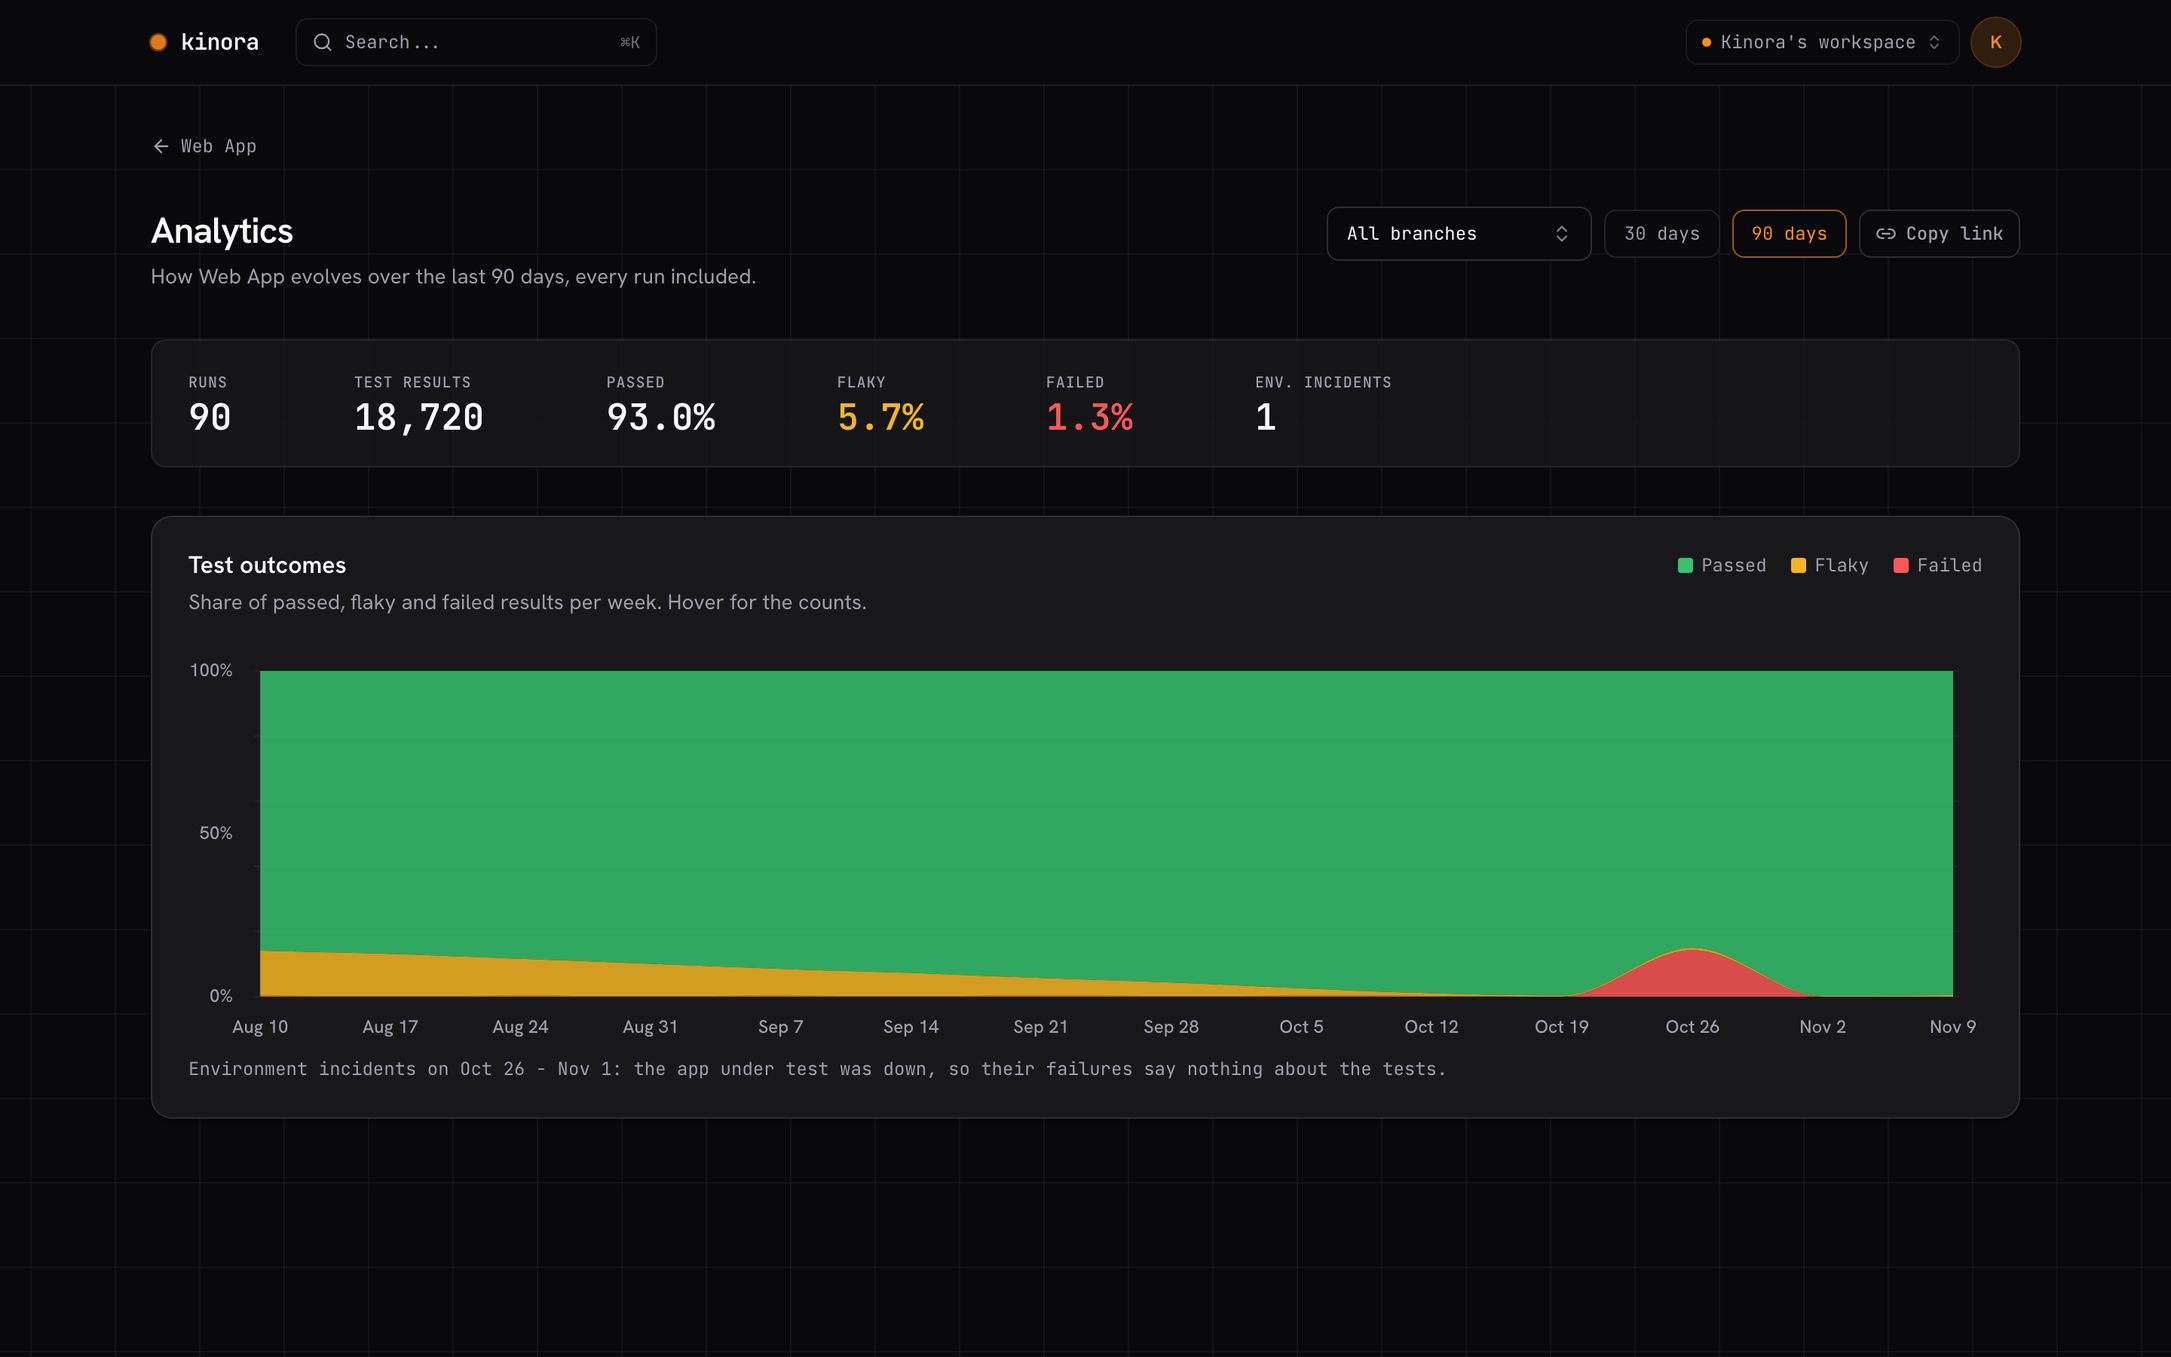
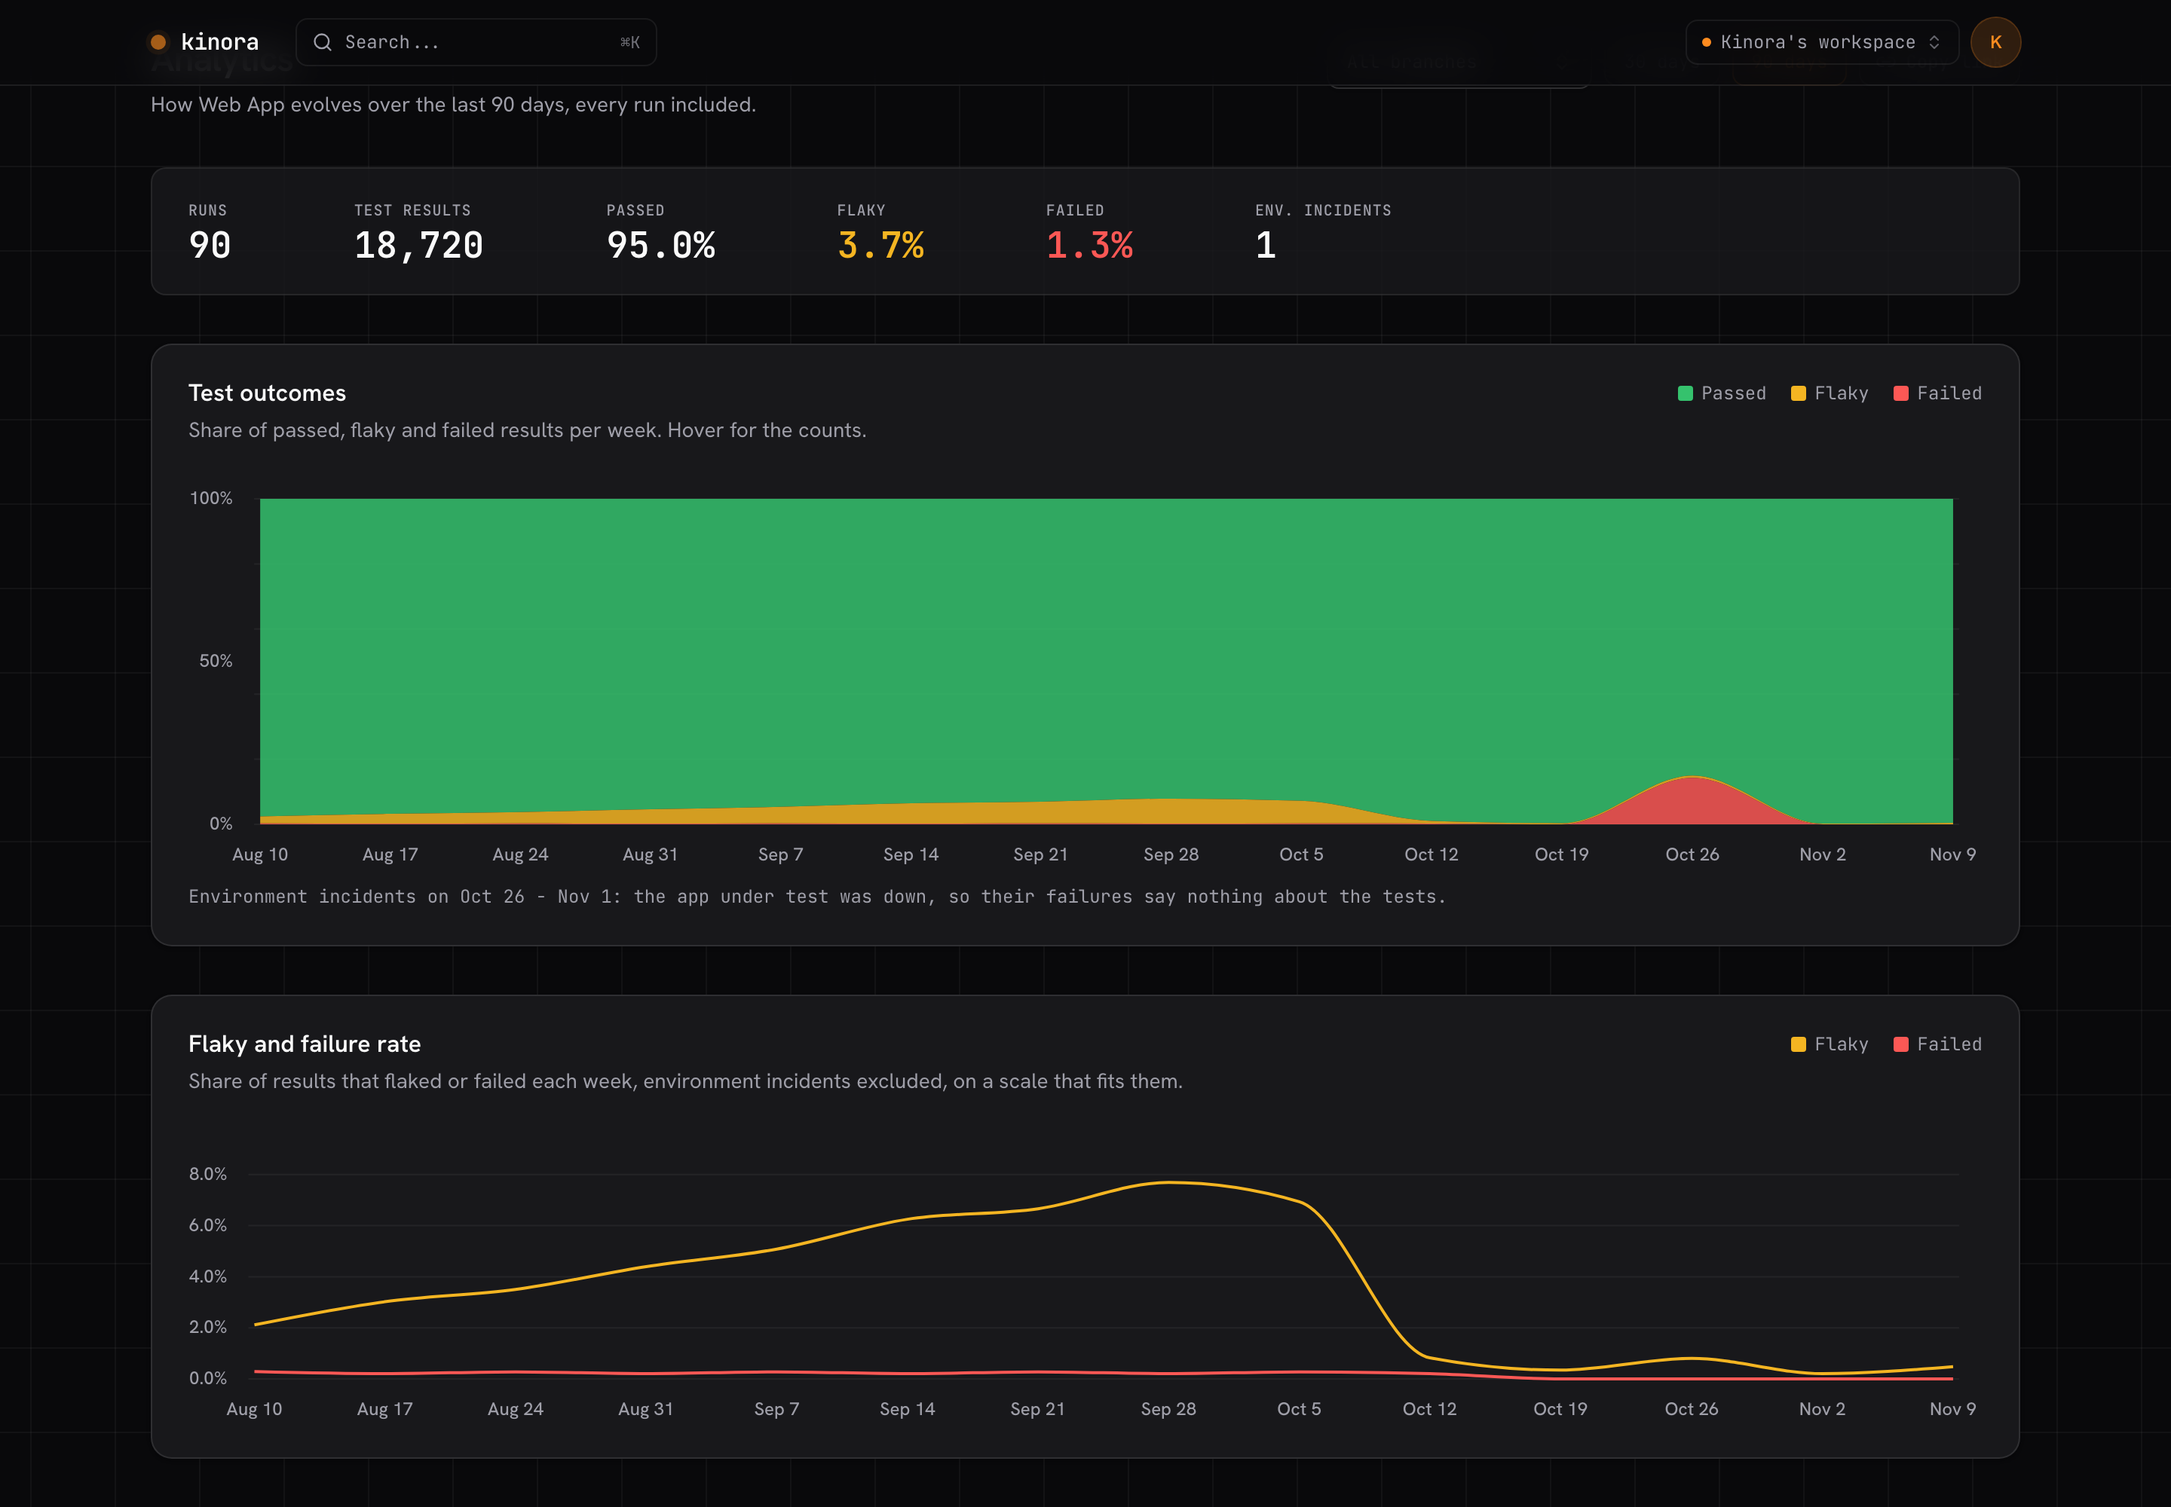
feat(analytics): chart flaky and failure rates on their own scale, without environment incidents

diff --git a/packages/web/src/pages/AnalyticsPage.vue b/packages/web/src/pages/AnalyticsPage.vue
@@ -3,6 +3,7 @@ import type { ChartConfig } from '@kinora/ui/chart'
 import { formatPct } from '@kinora/core'
 import { Button } from '@kinora/ui/button'
 import { Card, CardContent, CardDescription, CardHeader, CardTitle } from '@kinora/ui/card'
+import { LineChart } from '@kinora/ui/line-chart'
 import { SegmentedControl } from '@kinora/ui/segmented-control'
 import { Separator } from '@kinora/ui/separator'
 import { Skeleton } from '@kinora/ui/skeleton'
@@ -49,6 +50,15 @@ const outcomesConfig = {
 } satisfies ChartConfig
 
 const outcomes = computed(() => state.value?.outcomes ?? [])
+// A few percent of flaky results is invisible on the 0-100% outcomes chart: plot the rates on
+// their own scale, where a drift from 1% to 4% reads as one. Skipped results and environment
+// incidents are left out: an outage would otherwise set the scale and flatten everything else.
+const RATE_SERIES = ['flaky', 'unexpected']
+const ratesConfig = { flaky: outcomesConfig.flaky, unexpected: outcomesConfig.unexpected } satisfies ChartConfig
+const rates = computed(() => outcomes.value.flatMap((b) => {
+  const ran = b.countedExpected + b.countedFlaky + b.countedUnexpected
+  return ran ? [{ date: b.date, flaky: b.countedFlaky / ran, unexpected: b.countedUnexpected / ran }] : []
+}))
 const totals = computed(() => outcomes.value.reduce(
   (t, b) => ({ runs: t.runs + b.runs, expected: t.expected + b.expected, flaky: t.flaky + b.flaky, unexpected: t.unexpected + b.unexpected, incidents: t.incidents + b.incidents }),
   { runs: 0, expected: 0, flaky: 0, unexpected: 0, incidents: 0 },
@@ -184,6 +194,35 @@ const incidentBuckets = computed(() => outcomes.value.filter(b => b.incidents > 
           <p v-if="incidentBuckets.length" data-testid="incident-buckets" class="mt-3 font-mono text-xs text-muted-foreground">
             Environment incidents on {{ incidentBuckets.join(', ') }}: the app under test was down, so their failures say nothing about the tests.
           </p>
+        </CardContent>
+      </Card>
+
+      <Card v-if="rates.length > 1">
+        <CardHeader class="flex flex-row flex-wrap items-start justify-between gap-4">
+          <div class="flex flex-col gap-1.5">
+            <CardTitle>Flaky and failure rate</CardTitle>
+            <CardDescription>Share of results that flaked or failed each {{ per }}, environment incidents excluded, on a scale that fits them.</CardDescription>
+          </div>
+          <div class="flex items-center gap-4 font-mono text-xs text-muted-foreground">
+            <span v-for="key in RATE_SERIES" :key="key" class="flex items-center gap-1.5">
+              <span class="size-2.5 rounded-xs" :style="{ background: ratesConfig[key as keyof typeof ratesConfig].color }" />
+              {{ ratesConfig[key as keyof typeof ratesConfig].label }}
+            </span>
+          </div>
+        </CardHeader>
+        <CardContent>
+          <LineChart
+            :data="rates"
+            :x="d => at(d.date)"
+            :series="RATE_SERIES"
+            :config="ratesConfig"
+            :y-format="formatPct"
+            :x-tick-format="shortDate"
+            :x-label-format="bucketLabel"
+            :x-domain="xDomain"
+            :x-ticks="buckets"
+            class="h-48"
+          />
         </CardContent>
       </Card>
     </template>

diff --git a/packages/ui/src/components/ui/line-chart/LineChart.vue b/packages/ui/src/components/ui/line-chart/LineChart.vue
@@ -1,0 +1,69 @@
+<script setup lang="ts" generic="T extends Record<string, unknown>">
+import type { HTMLAttributes } from 'vue'
+import type { ChartConfig } from '../chart'
+import { CurveType } from '@unovis/ts'
+import { VisAxis, VisLine, VisXYContainer } from '@unovis/vue'
+import { usePreferredReducedMotion } from '@vueuse/core'
+import { computed } from 'vue'
+import { ChartContainer, ChartCrosshair, ChartTooltip, ChartTooltipContent, componentToString } from '../chart'
+
+// Several series as lines on one time axis, e.g. flaky and failure rates per week. `series` lists
+// config keys; each is also the datum field holding that series' value. Unlike a stacked chart,
+// the y axis fits the data, so a rate moving from 1% to 4% reads as a real change.
+const props = defineProps<{
+  data: T[]
+  x: (d: T, i: number) => number
+  series: string[]
+  config: ChartConfig
+  xTickFormat?: (x: number) => string
+  // Tooltip title; defaults to xTickFormat.
+  xLabelFormat?: (x: number) => string
+  // Formats a value on the y axis and in the tooltip, e.g. a rate as a percent.
+  yFormat?: (y: number) => string
+  xDomain?: [number, number]
+  xTicks?: number[]
+  class?: HTMLAttributes['class']
+}>()
+
+const still = usePreferredReducedMotion().value === 'reduce'
+const y = computed(() => props.series.map(key => (d: T) => Number(d[key]) || 0))
+// From zero, so a small rate does not read as a big one; some headroom keeps the peak off the top.
+const yDomain = computed((): [number, number] => {
+  const max = Math.max(0, ...props.data.flatMap(d => y.value.map(get => get(d))))
+  return [0, max ? max * 1.2 : 1]
+})
+const color = (_: unknown, i: number) => `var(--color-${props.series[i]})`
+const ticks = computed(() => props.xTicks ?? props.data.map(props.x))
+
+const label = props.xLabelFormat ?? props.xTickFormat
+const content = componentToString(props.config, ChartTooltipContent, {
+  labelFormatter: label ? (d: number | Date) => label(Number(d)) : undefined,
+})
+function tooltip(d: T, x: number | Date) {
+  const format = props.yFormat
+  const shown = format ? { ...d, ...Object.fromEntries(props.series.map(k => [k, format(Number(d[k]) || 0)])) } : d
+  return content?.(shown, x)
+}
+</script>
+
+<template>
+  <ChartContainer :config="config" :class="props.class" cursor>
+    <VisXYContainer :data="data" :x-domain="xDomain" :y-domain="yDomain" :duration="still ? 0 : undefined">
+      <VisLine :x="x" :y="y" :color="color" :curve-type="CurveType.MonotoneX" :line-width="2" />
+      <VisAxis
+        v-if="xTickFormat"
+        type="x"
+        :x="x"
+        :tick-format="xTickFormat"
+        :tick-values="ticks"
+        tick-text-adaptive-sets
+        :grid-line="false"
+        :domain-line="false"
+        :tick-line="false"
+      />
+      <VisAxis type="y" :tick-format="yFormat" :num-ticks="3" :domain-line="false" :tick-line="false" />
+      <ChartTooltip />
+      <ChartCrosshair :template="tooltip" :x="x" :y="y" :color="color" />
+    </VisXYContainer>
+  </ChartContainer>
+</template>

diff --git a/packages/server/scripts/seed-market.ts b/packages/server/scripts/seed-market.ts
@@ -121,8 +121,8 @@ interface TestDef {
   a11y?: A11yViolation[]
   // A component test: the story it mounts, as `@kinora/reporter/ct` records it.
   story?: string
-  // Background suite test: its seed for the flakiness that fades out over the history runs.
-  settling?: number
+  // Background suite test: its seed for the flakiness that creeps up over the history runs.
+  drift?: number
 }
 
 interface ProjectDef {
@@ -179,18 +179,18 @@ function suite(flavor: Flavor, areas: Record<string, string[]>): TestDef[] {
       for (const tpl of templates) {
         // About 1 in 40 gets an old flake; none touch the recent window, so badges stay scripted.
         const profile: Profile = (defs.length * 7 + 3) % 40 === 0 ? 'mostlyGreen' : 'solid'
-        defs.push({ file, title: tpl.replace('{es}', es).replace('{e}', e).replace(/\ba (?=[aeiou])/, 'an '), profile, settling: defs.length })
+        defs.push({ file, title: tpl.replace('{es}', es).replace('{e}', e).replace(/\ba (?=[aeiou])/, 'an '), profile, drift: defs.length })
       }
     }
   }
   return defs
 }
 
-// Flaky in ~14% of the oldest history runs down to ~1% of the newest, so the 90-day analytics
-// show a suite getting healthier. Story runs (i >= 0) are left to the scripted profiles.
-function settlingAt(seed: number, i: number): Status {
+// Flaky in ~1% of the oldest history runs, creeping up to ~8% of the newest: the drift the 90-day
+// analytics catch, fixed by the story runs (i >= 0), which are left to the scripted profiles.
+function driftAt(seed: number, i: number): Status {
   const age = -i / HISTORY
-  return ((seed * 31 + i * 17) % 100 + 100) % 100 < 1 + 13 * age ? 'flaky' : 'expected'
+  return ((seed * 31 + i * 17) % 100 + 100) % 100 < 1 + 7 * (1 - age) ? 'flaky' : 'expected'
 }
 
 function rule(id: string, impact: A11yViolation['impact'], help: string, nodes: string[], nodeCount = nodes.length): A11yViolation {
@@ -403,7 +403,7 @@ function outageError(def: TestDef, baseUrl: string, line: number): NormTest['err
 
 function makeTest(traces: LoadedDemoTrace[], pdef: ProjectDef, def: TestDef, i: number, fallbackLine: number): { test: NormTest, trace?: LoadedDemoTrace } {
   const down = pdef.outage?.run === i && def.profile !== 'fixmeSkip'
-  const status = down ? 'unexpected' : def.settling !== undefined && i < 0 ? settlingAt(def.settling, i) : statusAt(def.profile, i)
+  const status = down ? 'unexpected' : def.drift !== undefined && i < 0 ? driftAt(def.drift, i) : statusAt(def.profile, i)
   const titlePath = [def.file, def.title]
   // A test of the demo suite keeps its real location, so the card matches the trace header.
   const at = traces.find(t => isOwn(t, def))

diff --git a/packages/server/src/reports/analytics.ts b/packages/server/src/reports/analytics.ts
@@ -22,6 +22,11 @@ export interface OutcomeBucket {
   skipped: number
   // Runs flagged as environment incidents: still counted here, but they explain a dip.
   incidents: number
+  // The same results without the incident runs, which say nothing about the tests: what the
+  // flaky and failure rates are judged on.
+  countedExpected: number
+  countedFlaky: number
+  countedUnexpected: number
 }
 
 export interface ProjectAnalytics {
@@ -99,6 +104,7 @@ export async function loadProjectAnalytics(projectId: string, days: AnalyticsRan
   const local = sql`(${run.startedAt} AT TIME ZONE 'UTC') AT TIME ZONE ${sql.raw(`'${timeZone}'`)}`
   const start = sql`date_trunc(${sql.raw(`'${bucket}'`)}, ${local})`
   const total = (key: keyof Counts) => sql<number>`coalesce(sum((${run.counts}->>${sql.raw(`'${key}'`)})::int), 0)::int`
+  const counted = (key: keyof Counts) => sql<number>`coalesce(sum((${run.counts}->>${sql.raw(`'${key}'`)})::int) filter (where ${run.incident} is null), 0)::int`
   const branchOf = sql<string>`${run.git}->>'branch'`
 
   const [outcomes, branches] = await Promise.all([
@@ -111,6 +117,9 @@ export async function loadProjectAnalytics(projectId: string, days: AnalyticsRan
         unexpected: total('unexpected'),
         skipped: total('skipped'),
         incidents: sql<number>`(count(*) filter (where ${run.incident} is not null))::int`,
+        countedExpected: counted('expected'),
+        countedFlaky: counted('flaky'),
+        countedUnexpected: counted('unexpected'),
       })
       .from(run)
       .where(and(inRange, branch ? eq(branchOf, branch) : undefined))

diff --git a/packages/ui/src/components/ui/line-chart/LineChart.story.ts b/packages/ui/src/components/ui/line-chart/LineChart.story.ts
@@ -1,0 +1,35 @@
+import type { ChartConfig } from '../chart'
+import { h } from 'vue'
+import LineChart from './LineChart.vue'
+
+// A type alias, not an interface: the chart wants a Record<string, unknown>.
+// eslint-disable-next-line ts/consistent-type-definitions
+type Bucket = { day: string, flaky: number, unexpected: number }
+
+const DATA: Bucket[] = [
+  { day: 'Oct 1', flaky: 0.01, unexpected: 0.004 },
+  { day: 'Oct 2', flaky: 0.012, unexpected: 0.006 },
+  { day: 'Oct 3', flaky: 0.018, unexpected: 0.003 },
+  { day: 'Oct 4', flaky: 0.025, unexpected: 0.005 },
+  { day: 'Oct 5', flaky: 0.031, unexpected: 0.004 },
+  { day: 'Oct 6', flaky: 0.04, unexpected: 0.007 },
+]
+
+const CONFIG = {
+  flaky: { label: 'Flaky', color: 'var(--flaky)' },
+  unexpected: { label: 'Failed', color: 'var(--fail)' },
+} satisfies ChartConfig
+
+export function Rates() {
+  return h('div', { class: 'h-48 w-[28rem]' }, [
+    h(LineChart<Bucket>, {
+      data: DATA,
+      x: (_d: Bucket, i: number) => i,
+      series: ['flaky', 'unexpected'],
+      config: CONFIG,
+      xTickFormat: (i: number) => DATA[i]?.day ?? '',
+      yFormat: (v: number) => `${Math.round(v * 100)}%`,
+      class: 'h-full w-full',
+    }),
+  ])
+}

diff --git a/packages/server/test/dashboard.test.ts b/packages/server/test/dashboard.test.ts
@@ -307,8 +307,9 @@ describe('dashboard analytics', () => {
     const res = await (await caller(a)).dashboard.analytics({ projectId: 'web-app' })
     expect(res).toMatchObject({ days: 30, bucket: 'day' })
     expect(res.outcomes).toEqual([
-      { date: day(new Date(now - 3 * DAY)), runs: 2, expected: 17, flaky: 1, unexpected: 1, skipped: 1, incidents: 1 },
-      { date: day(new Date(now)), runs: 1, expected: 1, flaky: 0, unexpected: 0, skipped: 0, incidents: 0 },
+      // The incident run counts in the outcomes, not in the counted results the rates read.
+      { date: day(new Date(now - 3 * DAY)), runs: 2, expected: 17, flaky: 1, unexpected: 1, skipped: 1, incidents: 1, countedExpected: 8, countedFlaky: 1, countedUnexpected: 1 },
+      { date: day(new Date(now)), runs: 1, expected: 1, flaky: 0, unexpected: 0, skipped: 0, incidents: 0, countedExpected: 1, countedFlaky: 0, countedUnexpected: 0 },
     ])
   })
 

diff --git a/packages/ui/tests/components/line-chart.spec.ts b/packages/ui/tests/components/line-chart.spec.ts
@@ -1,0 +1,16 @@
+import { expect, test } from '../fixtures'
+
+test.describe('LineChart', () => {
+  test('draws one line per series', async ({ mount }) => {
+    const component = await mount('LineChart/Rates')
+    // Unovis hashes its class names (`css-<hash>-linePath`).
+    await expect(component.locator('path[class$="-linePath"]')).toHaveCount(2)
+    await expect(component.getByText('Oct 1', { exact: true })).toBeVisible()
+  })
+
+  test('fits the y axis to the data instead of 0 to 100%', async ({ mount }) => {
+    const component = await mount('LineChart/Rates')
+    await expect(component.getByText('4%', { exact: true })).toBeVisible()
+    await expect(component.getByText('100%', { exact: true })).toHaveCount(0)
+  })
+})

diff --git a/packages/web/e2e/analytics.spec.ts b/packages/web/e2e/analytics.spec.ts
@@ -24,6 +24,8 @@ test('analytics shows the outcomes of the range and filters by branch', async ({
   await expect(stat('Passed')).toContainText('77.8%')
   await expect(stat('Failed')).toContainText('11.1%')
   await expect(page.locator('[data-slot="chart"] path[class$="-area"]')).toHaveCount(3)
+  // The same rates on their own scale: one line for flaky, one for failed.
+  await expect(page.locator('[data-slot="chart"] path[class$="-linePath"]')).toHaveCount(2)
   await expect(page.getByText('per day')).toBeVisible()
   await scanPage(page)
 

diff --git a/packages/ui/src/components/ui/line-chart/index.ts b/packages/ui/src/components/ui/line-chart/index.ts
@@ -1,0 +1,1 @@
+export { default as LineChart } from './LineChart.vue'

diff --git a/docs/src/content/docs/guides/environment-incidents.md b/docs/src/content/docs/guides/environment-incidents.md
@@ -47,8 +47,9 @@ incident. A test that timed out and then saw its browser close is a timeout, not
 - **[MCP](/guides/mcp/)**: `list_failures` and `get_run` include the incident, so an agent does
   not read an outage as a regression.
 
-The run itself stays: its tests, errors and traces are kept like any other run's, and analytics
-still count it.
+The run itself stays: its tests, errors and traces are kept like any other run's, and the
+analytics outcomes still count it. The analytics flaky and failure rates leave it out, so an
+outage does not hide a slow drift.
 
 ## Stopping a run before it starts
 
